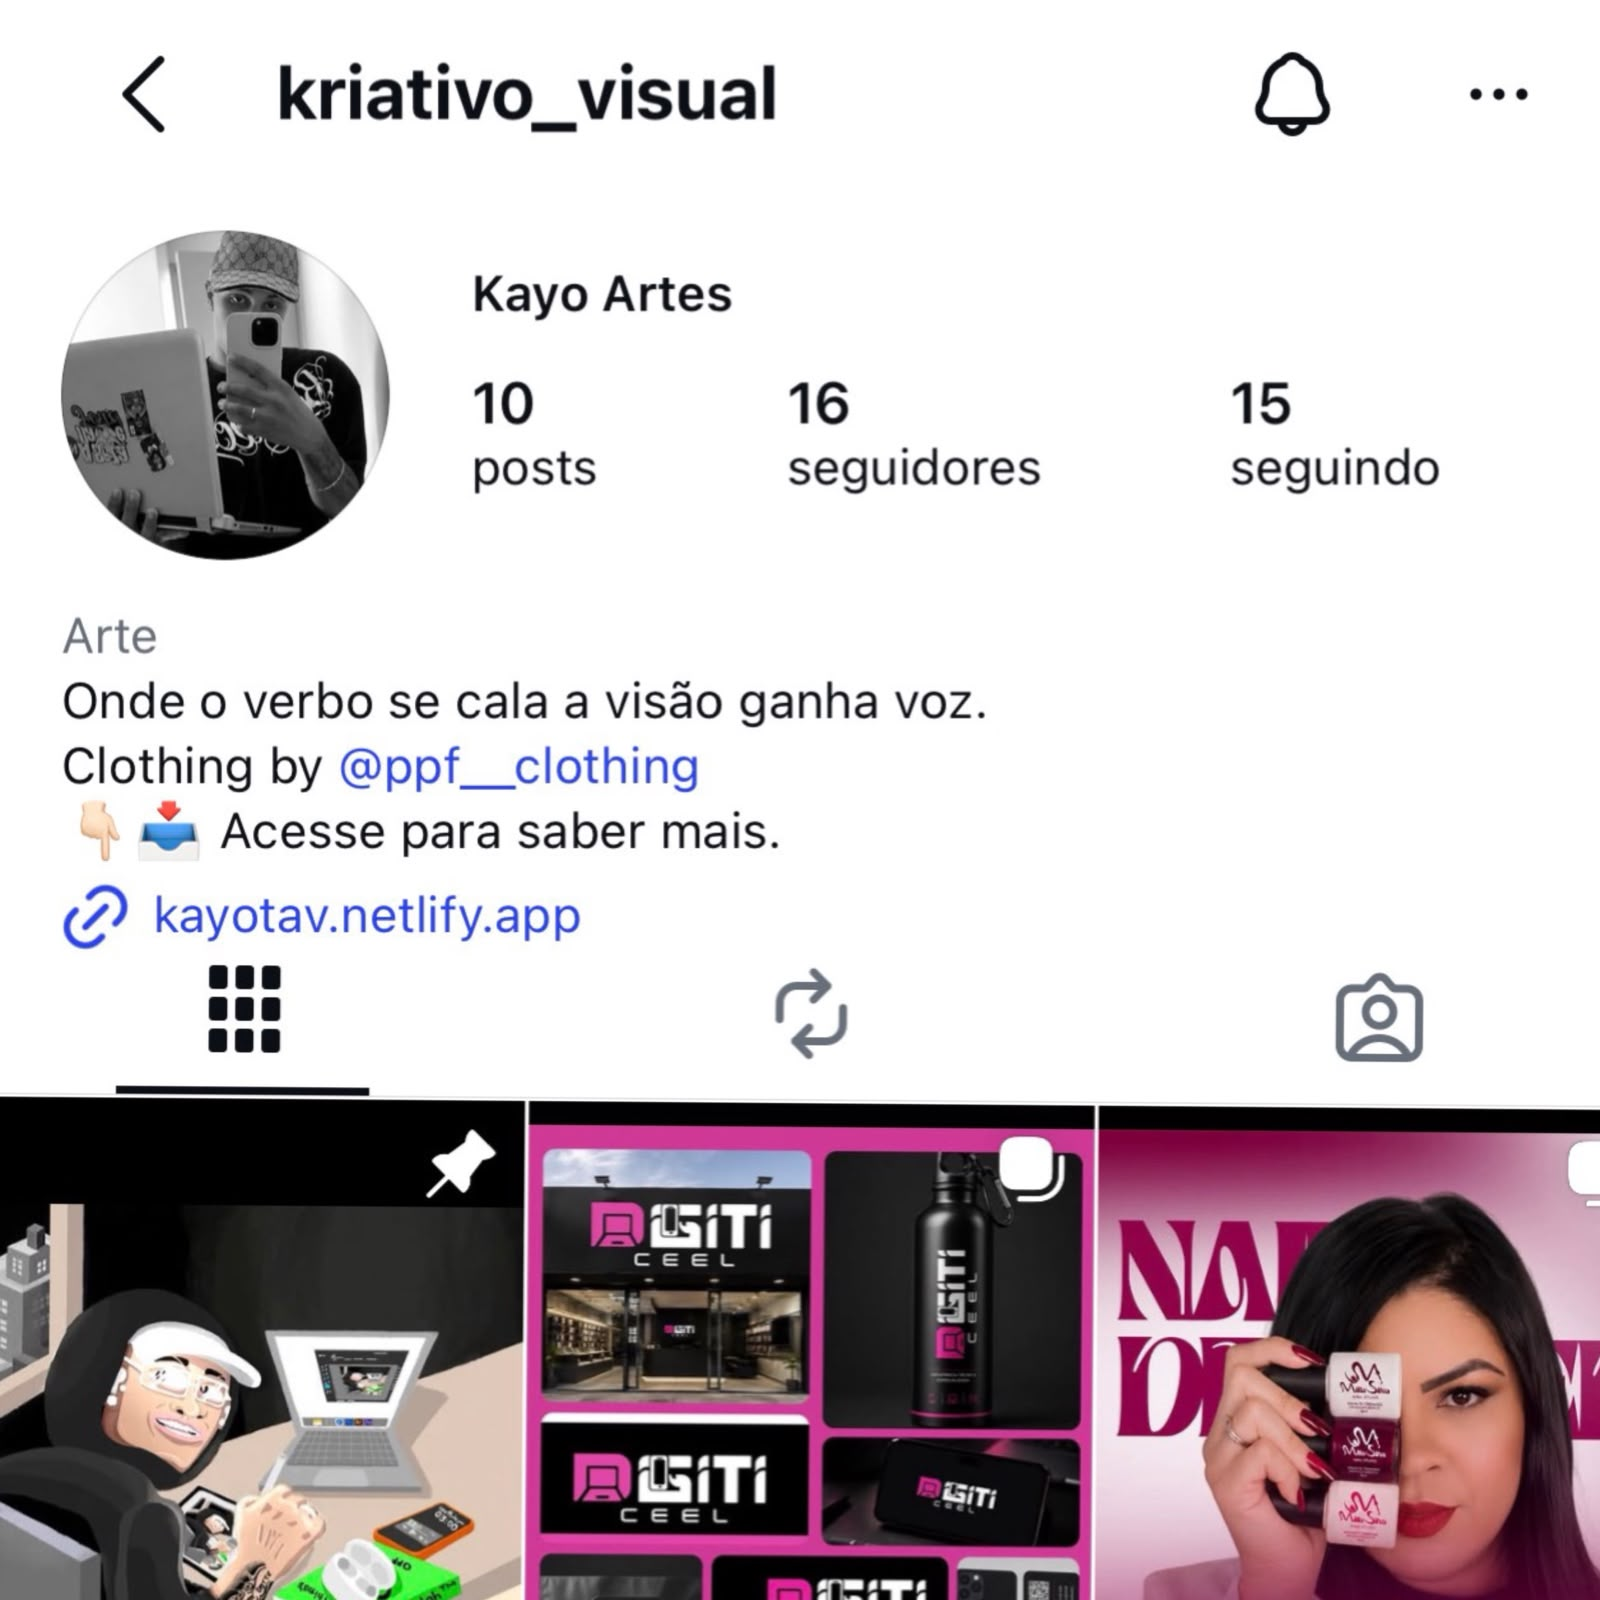
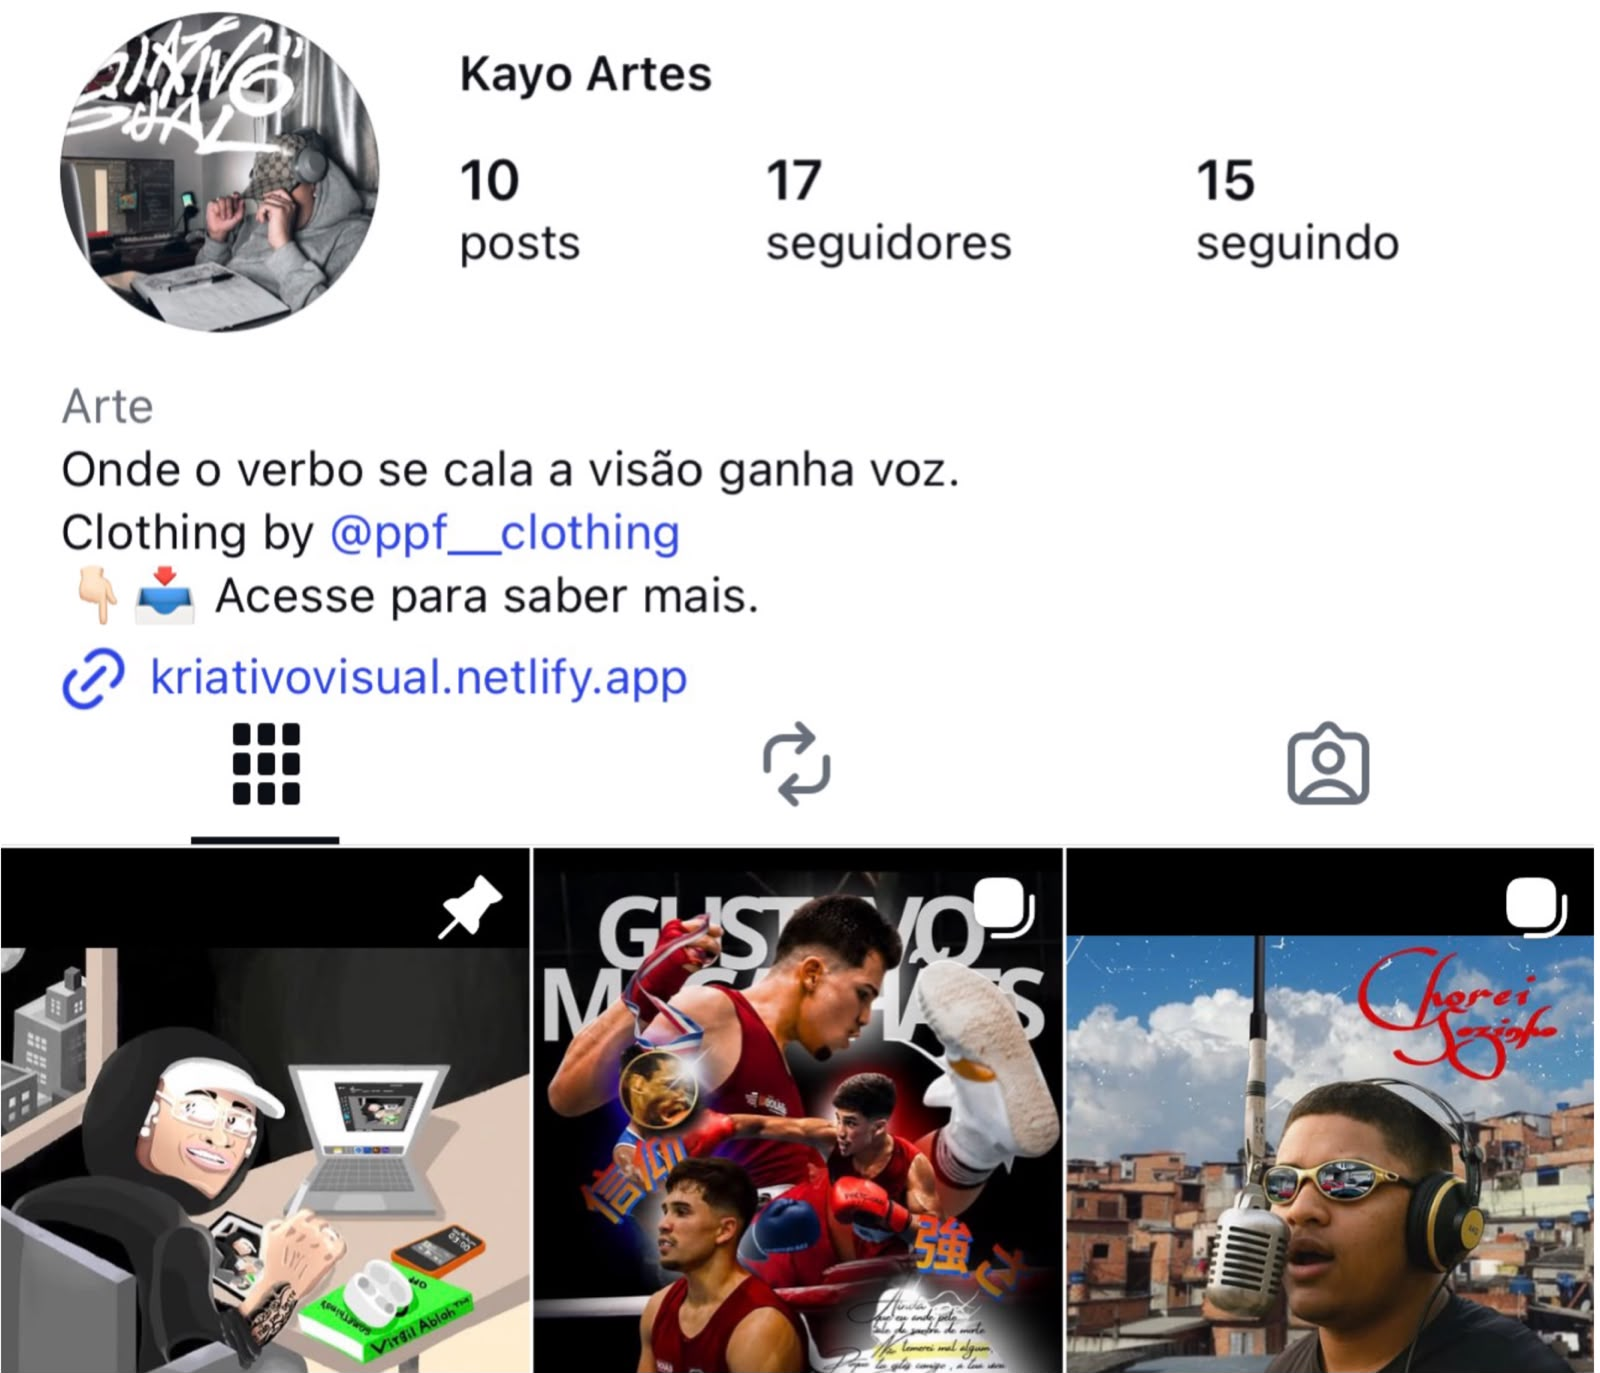
finalmrm

diff --git a/src/index.css b/src/index.css
@@ -11,14 +11,5 @@
   -moz-osx-font-smoothing: grayscale;
 }
 
-/* Remove margens padrão do navegador */
-html, body {
-  margin: 0;
-  padding: 0;
-  width: 100%;
-  height: 100vh; /* Altura total da tela */
-  overflow: hidden; /* Evita barras de rolagem indesejadas na tela principal */
-  background-color: #fbfbfb; /* Mesma cor do fundo do App.css */
-}
 
 @import url('https://fonts.googleapis.com/css2?family=Inter:ital,opsz,wght@0,14..32,100..900;1,14..32,100..900&display=swap');

diff --git a/src/App.css b/src/App.css
@@ -49,8 +49,8 @@ body {
 
 .stack-card {
   position: absolute;
-  width: 200%;
-  height: 400px; 
+  width: 105%;
+  height: 300px; 
   background: white;
   border-radius: 18px;
   border: 1px solid #ccc;
